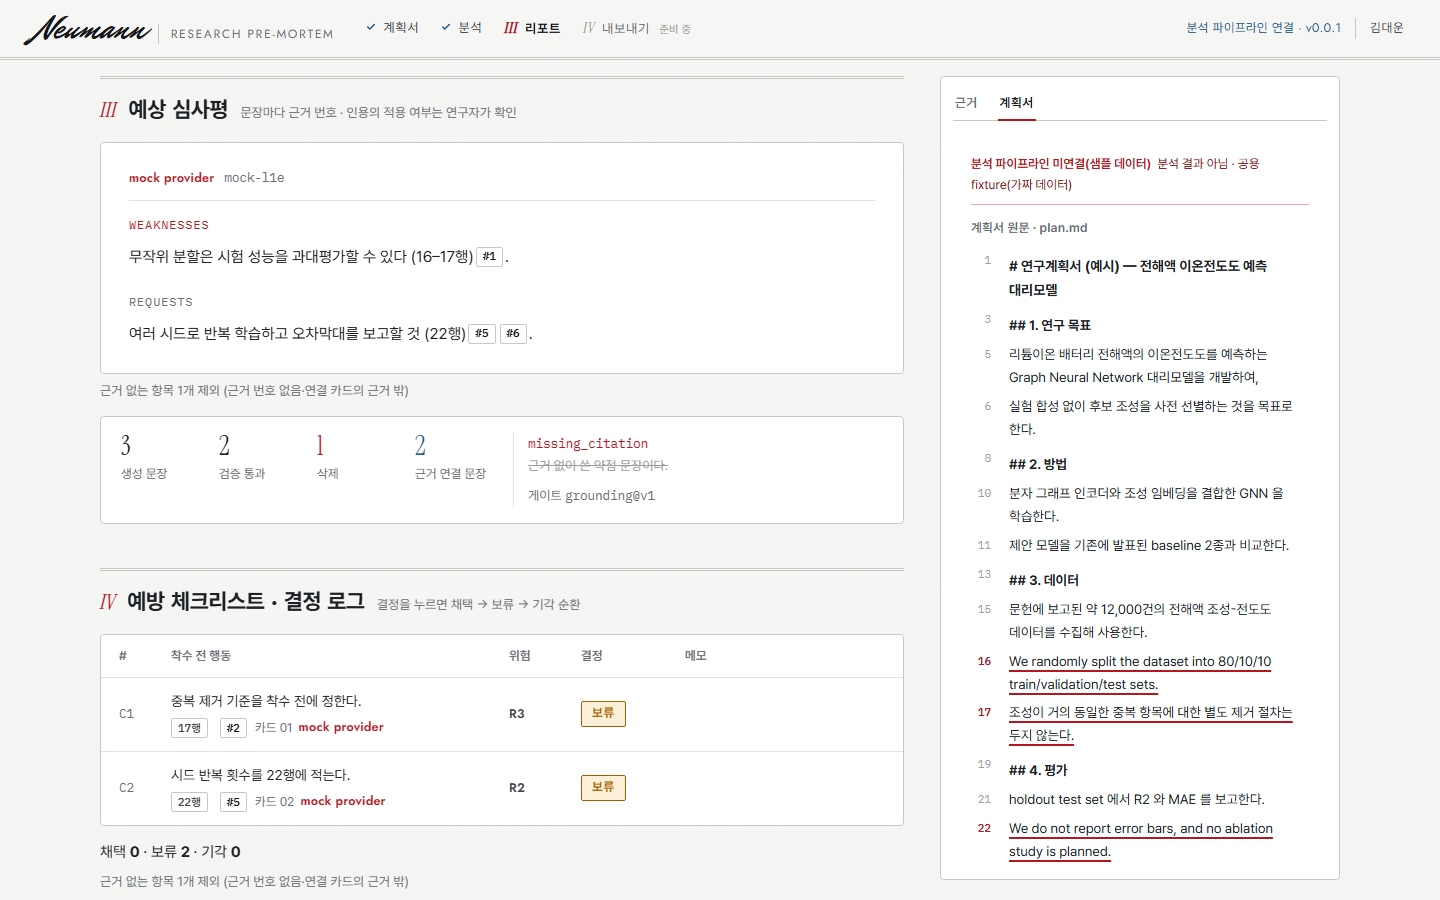
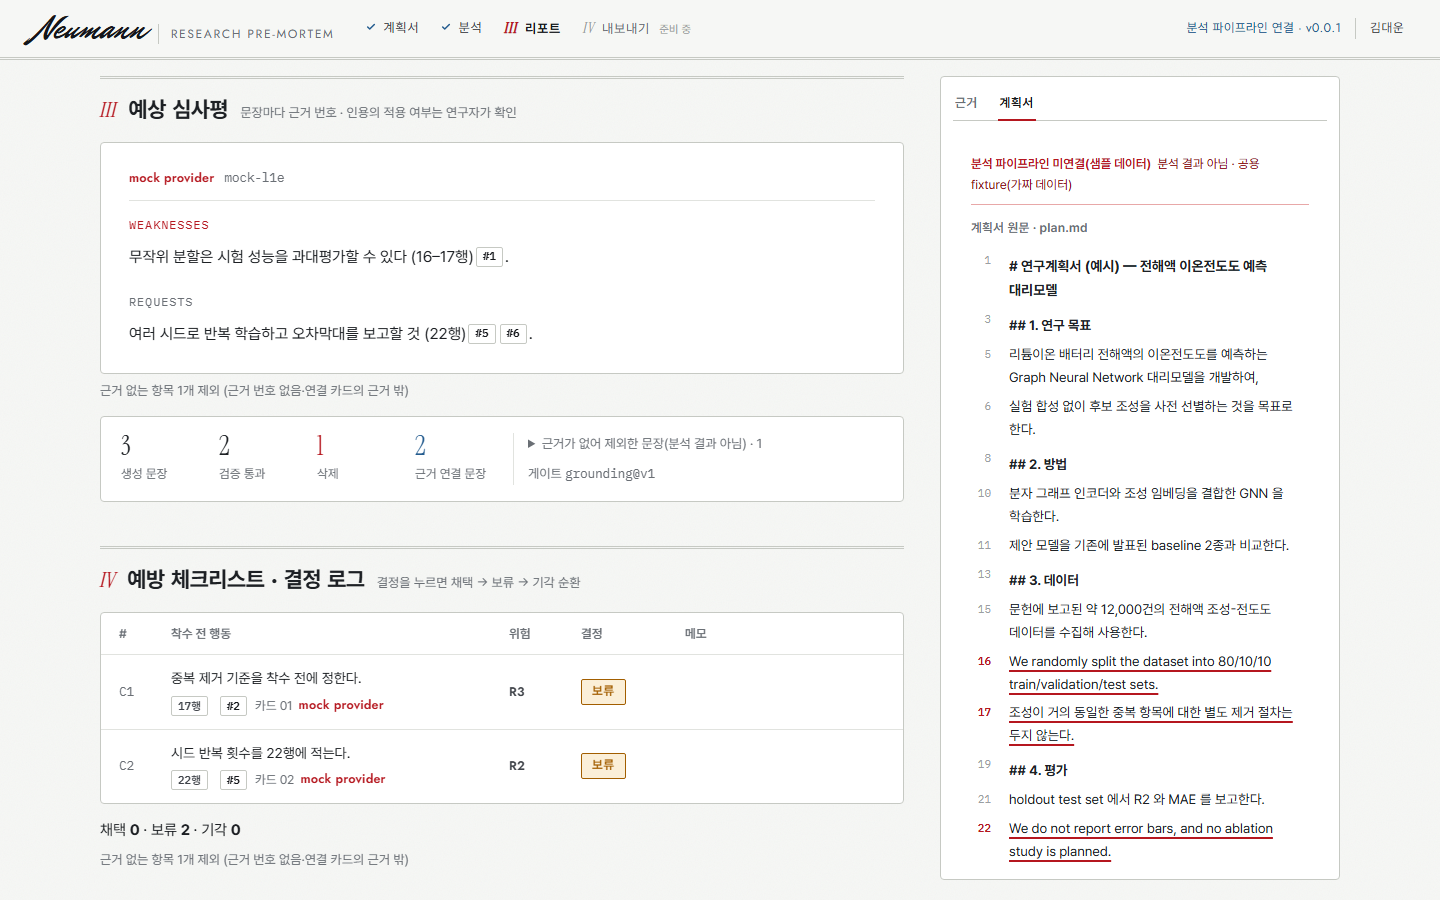
[E3-L1e] PM 결정: 심사평 감사 카드 삭제 문장 목록 기본 접힘, 제목 "근거가 없어 제외한 문장(분석 결과 아님)"
- index.html: 삭제 문장 목록(취소선·사유)을 <details id="revDropped">로 감쌈(open 없음) + summary CSS 1줄.
  체크리스트에는 같은 목록이 없어(수만 표시) 바꿀 것 없음.
- 브라우저 테스트(NEUMANN_UI_TESTS=1): 접힘·제목·접힌 상태에서 취소선 문장 안 보임 확인. 스크린샷 review 새로 찍음.
- 보고서 반영.

verify 통과 (1276 passed, 28 skipped)
builder: claude-opus-5.5

diff --git a/src/neumann/webui/index.html b/src/neumann/webui/index.html
@@ -294,6 +294,7 @@
   .audit .a .l { font-size: 12.5px; color: var(--muted); margin-top: 4px; }
   .audit .del { font-size: 13px; color: var(--muted); border-left: 1px solid var(--line); padding-left: 14px; }
   .audit .del s { color: var(--faint); display: block; }
+  .audit .del summary { cursor: pointer; margin-bottom: 8px; color: var(--muted); }  /* E3-L1e(PM): 제외 문장은 기본 접힘 */
   .ck { display: grid; grid-template-columns: 40px minmax(0, 1fr) 60px 92px 200px; gap: 0 12px; align-items: center; padding: 12px 18px; border-top: 1px solid var(--line); font-size: 14px; }
   .ck.head { border-top: none; font-size: 12.5px; font-weight: 600; color: var(--muted); padding: 10px 18px; }
   .dec { display: inline-flex; align-items: center; height: 26px; padding: 0 10px; border-radius: 6px; font-size: 12px; font-weight: 700; cursor: pointer; border: 1px solid transparent; user-select: none; }
@@ -762,7 +763,7 @@
     var revHead = (R.gen ? genLabel(R.gen) : '<span class="gen unknown">생성 방식 미표기</span>') + (R.model ? '<span class="mono">' + esc(R.model) + '</span>' : '') + (R.st && R.st !== 'ok' ? '<span class="bad">상태 ' + esc(R.st) + (R.why ? ' · ' + esc(R.why) : '') + '</span>' : '');
     var revGroups = [['strength', 'Strengths', 'var(--green)'], ['weakness', 'Weaknesses', 'var(--red)'], ['request', 'Requests', 'var(--muted)']].filter(function (g) { return (R[g[0]] || []).length; });
     var review = !hasReview ? '' : '<section id="s-review"><div class="sec"><span class="num">III</span><h2>예상 심사평</h2><span class="d">문장마다 근거 번호 · 인용의 적용 여부는 연구자가 확인</span></div><div class="card rev"><div class="gh" id="revGen">' + revHead + '</div>' + (revGroups.length ? revGroups.map(function (g) { return '<div class="g"><div class="h" style="color:' + g[2] + '">' + g[1] + '</div>' + para(R[g[0]]) + '</div>'; }).join('') : '<div class="sm muted">근거 게이트를 통과한 문장 없음</div>') + '</div>' +
-      '<div class="card audit"><div class="a"><div class="v">' + R.audit.gen + '</div><div class="l">생성 문장</div></div><div class="a"><div class="v">' + R.audit.pass + '</div><div class="l">검증 통과</div></div><div class="a"><div class="v" style="color:var(--red)">' + R.audit.drop + '</div><div class="l">삭제</div></div><div class="a"><div class="v" style="color:var(--green)">' + reviewCount() + '</div><div class="l">근거 연결 문장</div></div><div class="del">' + R.audit.dropped.map(function (d) { return '<div style="margin-bottom:8px;"><span class="mono" style="color:var(--red)">' + esc(d[0]) + '</span><s>' + esc(d[1]) + '</s></div>'; }).join('') + (R.audit.gate ? '<span class="sm">게이트 <span class="mono">' + esc(R.audit.gate) + '</span></span>' : '') + '</div></div></section>';
+      '<div class="card audit"><div class="a"><div class="v">' + R.audit.gen + '</div><div class="l">생성 문장</div></div><div class="a"><div class="v">' + R.audit.pass + '</div><div class="l">검증 통과</div></div><div class="a"><div class="v" style="color:var(--red)">' + R.audit.drop + '</div><div class="l">삭제</div></div><div class="a"><div class="v" style="color:var(--green)">' + reviewCount() + '</div><div class="l">근거 연결 문장</div></div><div class="del">' + (R.audit.dropped.length ? '<details id="revDropped"><summary>근거가 없어 제외한 문장(분석 결과 아님) · ' + R.audit.dropped.length + '</summary>' + R.audit.dropped.map(function (d) { return '<div style="margin-bottom:8px;"><span class="mono" style="color:var(--red)">' + esc(d[0]) + '</span><s>' + esc(d[1]) + '</s></div>'; }).join('') + '</details>' : '') + (R.audit.gate ? '<span class="sm">게이트 <span class="mono">' + esc(R.audit.gate) + '</span></span>' : '') + '</div></div></section>';
     var c = hasCheck ? ckCounts() : null;
     var check = !hasCheck ? '' : '<section id="s-check"><div class="sec"><span class="num">IV</span><h2>예방 체크리스트 · 결정 로그</h2><span class="d">결정을 누르면 채택 → 보류 → 기각 순환</span></div><div class="card" style="overflow:hidden;"><div class="ck head"><div>#</div><div>착수 전 행동</div><div>위험</div><div>결정</div><div>메모</div></div>' + D.checklist.map(function (it, i) { var sub = (it.ln || []).map(lref).join('') + (it.ev || []).map(cite).join('') + (it.card ? '<span>카드 ' + esc(('0' + it.card).slice(-2)) + '</span>' : '') + (it.gen ? genLabel(it.gen) : '') + (it.v ? '<span>확인 · ' + esc(it.v) + '</span>' : ''); return '<div class="ck"><div class="mono muted">' + esc(it.id) + '</div><div>' + esc(it.t) + (sub ? '<div class="sub">' + sub + '</div>' : '') + '</div><div><span class="tag gray">' + esc(it.r) + '</span></div><div><span class="dec" data-i="' + i + '" data-s="' + esc(it.s) + '"' + (it.set === false ? ' title="결정 전 · 기본값 보류"' : '') + '>' + esc(it.s) + '</span></div><div class="sm muted">' + esc(it.m) + '</div></div>'; }).join('') + '</div><div style="margin-top:14px;" id="ckSum">채택 <strong>' + c['채택'] + '</strong> · 보류 <strong>' + c['보류'] + '</strong> · 기각 <strong>' + c['기각'] + '</strong></div></section>';
     /* E3-L1e: 근거 게이트가 뺀 수(view 필드 checklist_audit.note · review.audit.note). 근거 없는 항목은 화면에 없고 수만 보인다 */

diff --git a/tests/e3/test_evidence_gate_view_l1e.py b/tests/e3/test_evidence_gate_view_l1e.py
@@ -109,6 +109,8 @@ def test_excluded_note_renders_in_browser(tmp_path) -> None:
               rev: (document.getElementById('revExcluded') || {}).innerText || '',
               rows: Array.from(document.querySelectorAll('#s-check .ck:not(.head)')).map(r => r.querySelectorAll('.cite').length),
               text: document.getElementById('s-check').innerText + document.getElementById('s-review').innerText,
+              fold: (() => { const d = document.getElementById('revDropped'); return d ? {open: d.open,
+                summary: d.querySelector('summary').innerText, struck_visible: !!d.querySelector('s') && d.querySelector('s').checkVisibility()} : null; })(),
             })""")
             for sec, name in (("s-check", "check"), ("s-review", "review")):
                 page.evaluate(f"document.getElementById('{sec}').scrollIntoView({{block: 'start'}})")
@@ -121,6 +123,11 @@ def test_excluded_note_renders_in_browser(tmp_path) -> None:
     assert dom["ck"].startswith("근거 없는 항목 1개 제외") and dom["rev"].startswith("근거 없는 항목 1개 제외")
     assert dom["rows"] and all(n >= 1 for n in dom["rows"])  # 화면 항목은 전부 근거 번호가 있다
     assert "분할 단위를 계획서 16행에 적는다." not in dom["text"]  # 폐기된 행동 문구는 화면에 없다
+    # PM 결정: 심사평 감사 카드의 제외 문장 목록은 기본 접힘, 제목 "근거가 없어 제외한 문장(분석 결과 아님)"
+    fold = dom["fold"]
+    assert fold is not None and fold["open"] is False and not fold["struck_visible"]
+    assert fold["summary"].startswith("근거가 없어 제외한 문장(분석 결과 아님)")
+    assert "근거 없이 쓴 약점 문장이다." not in dom["text"]  # 접힌 상태에서는 제외 문장이 보이지 않는다
 
 
 def _mock_view() -> dict:

diff --git a/docs/reports/E3-L1e.md b/docs/reports/E3-L1e.md
@@ -136,7 +136,7 @@ verify 통과
 | `src/neumann/analyze/validate.py` | 2차 검증 같은 게이트(모델에 안 보냄·apply에서 뺌), counts·evidence_gate·dropped_actions·notice | E3 |
 | `src/neumann/analyze/review.py` | audit `no_evidence`, 단계 counts·detail | E3 |
 | `src/neumann/api/view.py` | 화면 게이트, `checklist_audit`, `review.audit.no_evidence·note` | E4(과제 지시로 최소 변경) |
-| `src/neumann/webui/index.html` | 새 줄 4개(기존 줄 수정 없음) | E4(과제 지시로 최소 변경) |
+| `src/neumann/webui/index.html` | 새 줄 4개. PM 결정으로 감사 카드 삭제 문장 목록을 `<details>`로 감쌈(기존 줄 1곳 + CSS 1줄) | E4(과제 지시로 최소 변경) |
 | `contracts/ui_view.schema.json` | 선택 필드 추가 | PM(과제 지시 "계약은 추가만") |
 | `tests/e3/test_evidence_gate_l1e.py`, `tests/e3/test_evidence_gate_view_l1e.py` | 새 테스트 | E3 |
 | `tests/e3/test_checklist.py`, `test_review.py`, `test_gate.py` | 위 "기존 테스트도 고쳤다" 참조 | E3 |
@@ -156,7 +156,7 @@ verify 통과
 ## 못 한 것 · 관찰
 
 - **라이브 재확인 안 함**(지시: API 0, 재실행 금지). E5-L1e2e의 2건(C3·C6)이 이제 어떻게 나오는지는 다음 승인 라이브에서 확인한다. 기대 결과: 그 항목은 폐기되고 화면에 "근거 없는 항목 1개 제외"가 나오며 E5 판정은 PASS다.
-- (PM 판단) 심사평 감사 카드는 기존 목업 설계대로 삭제된 문장을 **취소선과 사유 코드**로 보여 준다(`R.audit.dropped`, 스크린샷 `E3-L1e_review.png`의 `missing_citation`). "삭제됨" 표시가 붙은 감사 기록이지만, "근거 없는 문장은 출력하지 않는다"를 엄격히 읽으면 걸릴 수 있다. E4 화면 설계라 고치지 않았다. 체크리스트는 이렇게 문구를 보여 주지 않고 수만 보여 준다.
+- (PM 결정 반영) 심사평 감사 카드의 삭제 문장 목록(취소선·사유 코드)은 유지하되 **기본 접힘**으로 바꿨다. 제목은 **"근거가 없어 제외한 문장(분석 결과 아님) · k"**다(`<details id="revDropped">`, `open` 없음). 결과로 주장하지 않는 감사 기록이라 원칙과 맞다는 PM 판단이다. 체크리스트에는 비슷한 목록이 없다(view에 문구를 싣지 않고 수만 싣는다). 그래서 맞출 것이 없다. 브라우저 테스트가 다음을 확인한다: 접힘(`open=false`), 제목, 접힌 상태에서 취소선 문장이 보이지 않음(`checkVisibility()=false`, 화면 텍스트에 없음). 스크린샷 `E3-L1e_review.png`를 새로 찍었다.
 - `hasCheck`가 거짓이면(체크리스트가 0행이면) 체크리스트 절이 그려지지 않아 제외 문구도 보이지 않는다. 카드가 있으면 규칙 경로가 항목을 채우므로 실제로는 생기지 않는다.
 - 기준선 실행에서 `tests/e3/test_pipeline_parallel_sim.py::test_simulated_parallel_is_faster_and_same`가 한 번 시간 초과로 실패했다(0.858s < 0.624s 기대, 다른 빌더들이 동시에 돌아 부하가 있었음). 코드를 바꾸기 전의 일이고, 마지막 verify에서는 통과했다. 시간 기반 테스트라 부하에 약하다.
 
@@ -167,4 +167,3 @@ verify 통과
   - `verification.checklist_evidence.reasons`
   - 화면 `#ckExcluded`
 - (E5) E2E 판정기가 `checklist_audit.excluded`·`review.audit.no_evidence`를 요약 줄에 기록하면 폐기율을 계획서별로 볼 수 있다.
-- (E4) 심사평 감사 카드의 취소선 문장 표시를 유지할지 결정한다(위 관찰).
